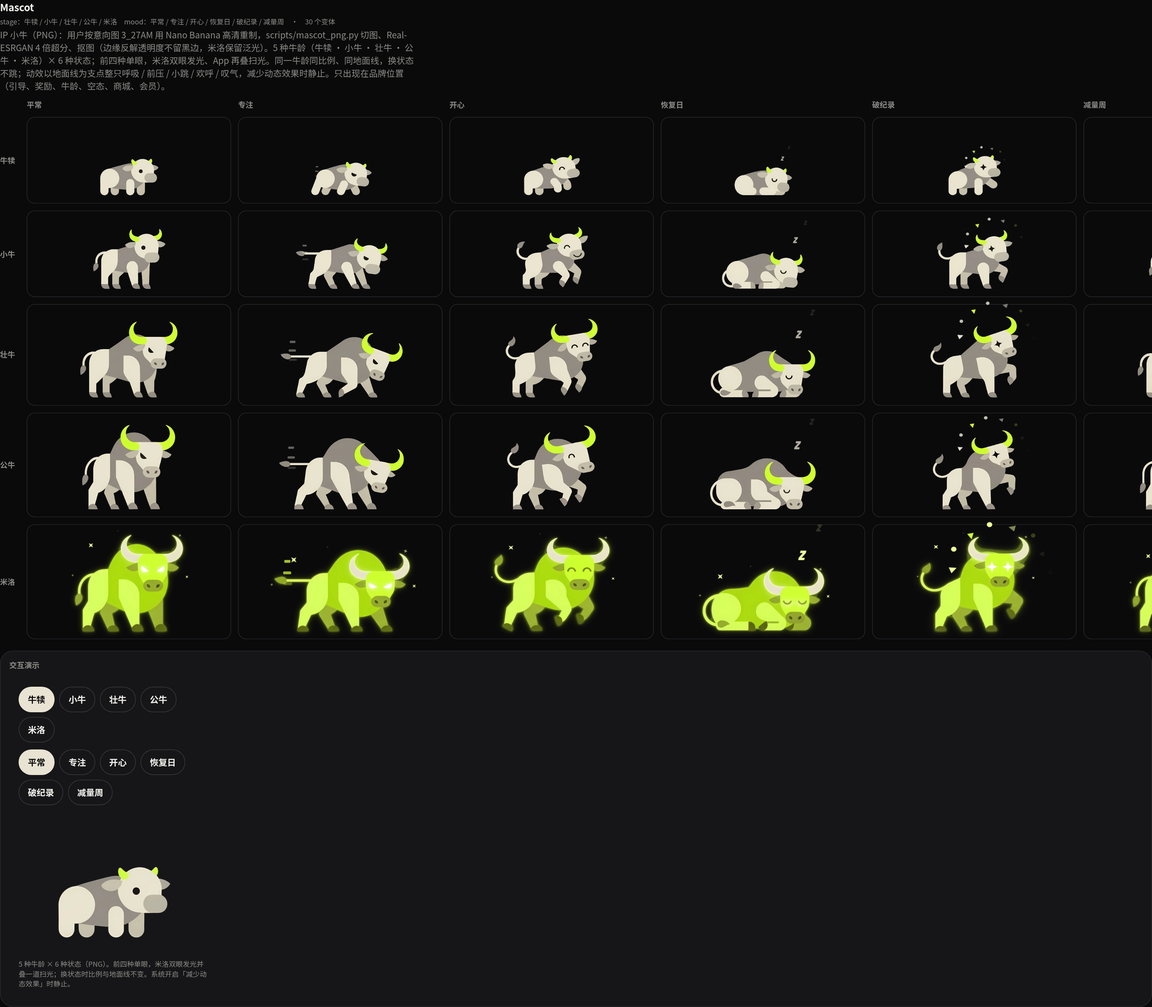
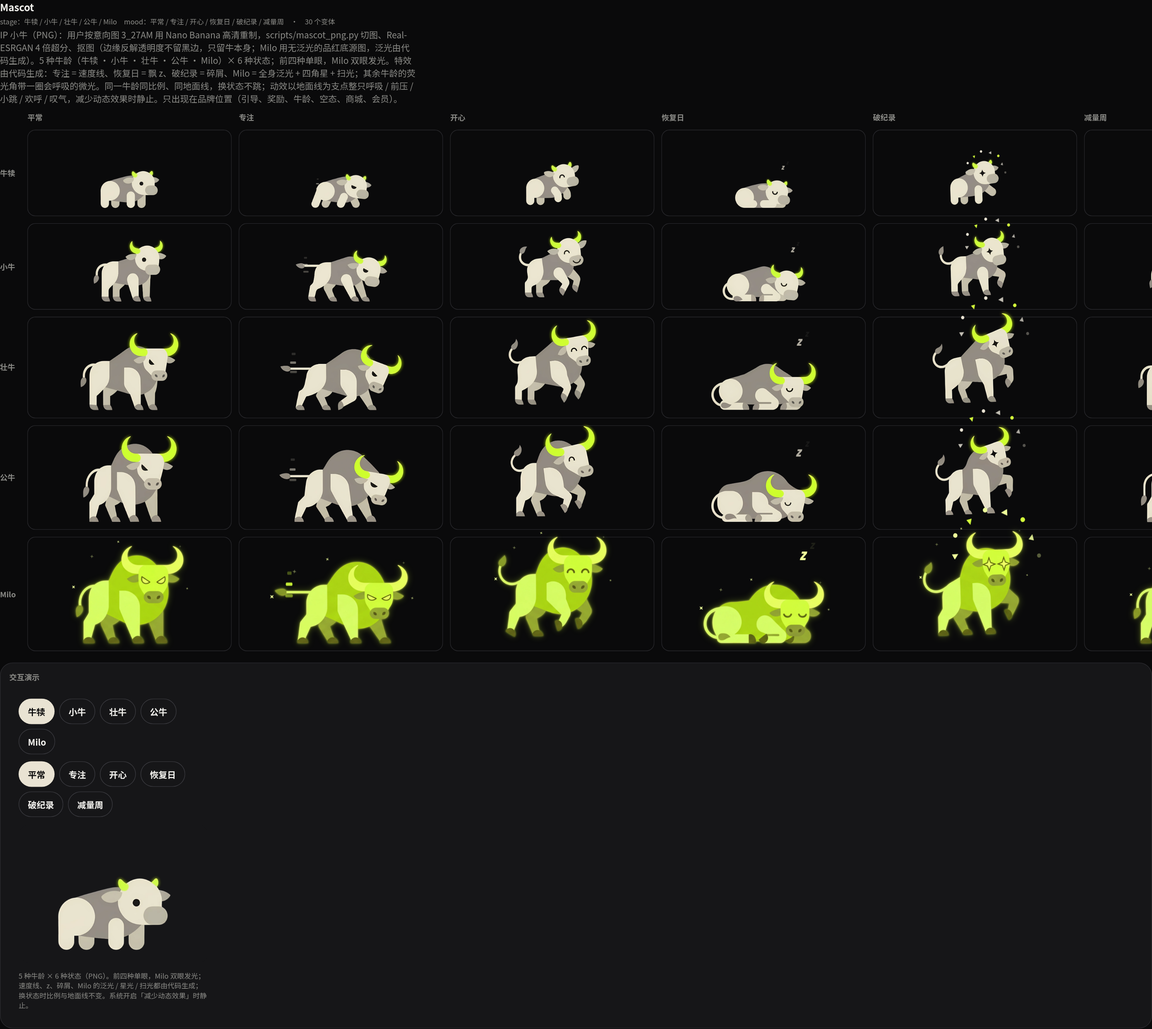
Milo 换无泛光源图重抠：绿色通道当键、去粉边，角和眼是全图最亮的荧光；头像框标定
- 源图 docs/B5-noglow.jpg（用户按提示词 §D 重出：无泛光、品红纯色底、角和眼 #EEFF6A 档荧光），已是 B5 的 4 倍大，跳过超分
- 品红底用绿色通道当键抠（底绿 ≈ 7，蹄子 ≈ 86），实心区往里收 2 像素，去掉生成图外缘的暗品红描边
- 删掉 BiRefNet 过渡方案；Milo 头像框改为和其余牛龄一样的逐张标定像素框
- 文档、品牌页、目录描述同步；奖励 GIF 与相关组件截图重出

Claude-Session: https://claude.ai/code/session_01VtzVRg4P2pmqxTgWpjWk5a

diff --git a/src/components/mascotAssets.ts b/src/components/mascotAssets.ts
@@ -4,4 +4,4 @@
 export type MascotStage = 'newborn' | 'young' | 'sturdy' | 'bull' | 'milo';
 export type MascotMood = 'idle' | 'focused' | 'happy' | 'rest' | 'pr' | 'deload';
 export interface MascotAsset { w: number; h: number; ground: number; moods: Record<MascotMood, { head: [number, number, number, number]; body: [number, number, number, number] }> }
-export const MASCOT_ASSETS: Record<MascotStage, MascotAsset> = {"newborn":{"w":410,"h":297,"ground":289.1,"moods":{"idle":{"head":[201,27,202,202],"body":[14,47,398,288]},"focused":{"head":[211,49,202,202],"body":[8,64,403,287]},"happy":{"head":[181,-3,207,207],"body":[28,7,381,287]},"rest":{"head":[204,84,202,202],"body":[18,105,392,288]},"pr":{"head":[184,-3,196,196],"body":[40,9,371,287]},"deload":{"head":[199,37,202,202],"body":[21,64,389,288]}}},"young":{"w":618,"h":446,"ground":439.1,"moods":{"idle":{"head":[286,23,258,258],"body":[72,42,548,437]},"focused":{"head":[366,84,269,269],"body":[9,100,611,437]},"happy":{"head":[286,-14,258,258],"body":[84,8,537,437]},"rest":{"head":[338,172,252,252],"body":[39,201,581,437]},"pr":{"head":[298,10,263,263],"body":[70,30,550,437]},"deload":{"head":[316,83,258,258],"body":[64,96,556,437]}}},"sturdy":{"w":814,"h":579,"ground":571.7,"moods":{"idle":{"head":[388,46,358,358],"body":[86,72,727,570]},"focused":{"head":[491,119,358,358],"body":[7,140,806,570]},"happy":{"head":[376,-6,347,347],"body":[115,25,699,570]},"rest":{"head":[422,230,347,347],"body":[65,269,749,569]},"pr":{"head":[377,-18,336,336],"body":[129,9,687,571]},"deload":{"head":[394,90,347,347],"body":[90,123,724,571]}}},"bull":{"w":836,"h":602,"ground":594.1,"moods":{"idle":{"head":[343,4,403,403],"body":[111,36,727,591]},"focused":{"head":[476,125,381,381],"body":[8,116,828,591]},"happy":{"head":[345,-15,381,381],"body":[136,9,701,592]},"rest":{"head":[410,250,375,375],"body":[73,267,766,591]},"pr":{"head":[375,9,325,325],"body":[156,44,682,592]},"deload":{"head":[386,118,358,358],"body":[117,149,720,593]}}},"milo":{"w":902,"h":672,"ground":662.3,"moods":{"idle":{"head":[397,15,335,335],"body":[94,30,807,665]},"focused":{"head":[429,103,397,397],"body":[7,122,894,665]},"happy":{"head":[368,-15,344,344],"body":[86,14,818,665]},"rest":{"head":[392,234,374,374],"body":[54,262,850,660]},"pr":{"head":[373,-11,326,326],"body":[106,8,799,664]},"deload":{"head":[399,107,331,331],"body":[100,105,803,664]}}}};
+export const MASCOT_ASSETS: Record<MascotStage, MascotAsset> = {"newborn":{"w":410,"h":297,"ground":289.1,"moods":{"idle":{"head":[201,27,202,202],"body":[14,47,398,288]},"focused":{"head":[211,49,202,202],"body":[8,64,403,287]},"happy":{"head":[181,-3,207,207],"body":[28,7,381,287]},"rest":{"head":[204,84,202,202],"body":[18,105,392,288]},"pr":{"head":[184,-3,196,196],"body":[40,9,371,287]},"deload":{"head":[199,37,202,202],"body":[21,64,389,288]}}},"young":{"w":618,"h":446,"ground":439.1,"moods":{"idle":{"head":[286,23,258,258],"body":[72,42,548,437]},"focused":{"head":[366,84,269,269],"body":[9,100,611,437]},"happy":{"head":[286,-14,258,258],"body":[84,8,537,437]},"rest":{"head":[338,172,252,252],"body":[39,201,581,437]},"pr":{"head":[298,10,263,263],"body":[70,30,550,437]},"deload":{"head":[316,83,258,258],"body":[64,96,556,437]}}},"sturdy":{"w":814,"h":579,"ground":571.7,"moods":{"idle":{"head":[388,46,358,358],"body":[86,72,727,570]},"focused":{"head":[491,119,358,358],"body":[7,140,806,570]},"happy":{"head":[376,-6,347,347],"body":[115,25,699,570]},"rest":{"head":[422,230,347,347],"body":[65,269,749,569]},"pr":{"head":[377,-18,336,336],"body":[129,9,687,571]},"deload":{"head":[394,90,347,347],"body":[90,123,724,571]}}},"bull":{"w":836,"h":602,"ground":594.1,"moods":{"idle":{"head":[343,4,403,403],"body":[111,36,727,591]},"focused":{"head":[476,125,381,381],"body":[8,116,828,591]},"happy":{"head":[345,-15,381,381],"body":[136,9,701,592]},"rest":{"head":[410,250,375,375],"body":[73,267,766,591]},"pr":{"head":[375,9,325,325],"body":[156,44,682,592]},"deload":{"head":[386,118,358,358],"body":[117,149,720,593]}}},"milo":{"w":894,"h":666,"ground":659.1,"moods":{"idle":{"head":[368,-19,459,459],"body":[94,27,802,658]},"focused":{"head":[466,94,448,448],"body":[8,119,888,658]},"happy":{"head":[386,-32,448,448],"body":[84,10,812,658]},"rest":{"head":[424,216,442,442],"body":[53,263,844,658]},"pr":{"head":[382,-37,431,431],"body":[105,7,792,658]},"deload":{"head":[372,53,448,448],"body":[99,104,798,658]}}}};

diff --git a/src/playground/catalog.tsx b/src/playground/catalog.tsx
@@ -408,7 +408,7 @@ export const CATALOG: Entry[] = [
   },
   /* ---------------- 品牌（阶段 5.5b，2026-10-05） ---------------- */
   {
-    name: 'Mascot', group: '品牌', desc: 'IP 小牛（PNG）：用户按意向图 3_27AM 用 Nano Banana 高清重制，scripts/mascot_png.py 切图、Real-ESRGAN 4 倍超分、抠图（边缘反解透明度不留黑边，只留牛本身；Milo 用 BiRefNet 直接出透明度，泛光扣得干净）。5 种牛龄（牛犊 · 小牛 · 壮牛 · 公牛 · Milo）× 6 种状态；前四种单眼，Milo 双眼发光。特效由代码生成：专注 = 速度线、恢复日 = 飘 z、破纪录 = 碎屑、Milo = 全身泛光 + 四角星 + 扫光；其余牛龄的荧光角带一圈会呼吸的微光。同一牛龄同比例、同地面线，换状态不跳；动效以地面线为支点整只呼吸 / 前压 / 小跳 / 欢呼 / 叹气，减少动态效果时静止。只出现在品牌位置（引导、奖励、牛龄、空态、商城、会员）。',
+    name: 'Mascot', group: '品牌', desc: 'IP 小牛（PNG）：用户按意向图 3_27AM 用 Nano Banana 高清重制，scripts/mascot_png.py 切图、Real-ESRGAN 4 倍超分、抠图（边缘反解透明度不留黑边，只留牛本身；Milo 用无泛光的品红底源图，泛光由代码生成）。5 种牛龄（牛犊 · 小牛 · 壮牛 · 公牛 · Milo）× 6 种状态；前四种单眼，Milo 双眼发光。特效由代码生成：专注 = 速度线、恢复日 = 飘 z、破纪录 = 碎屑、Milo = 全身泛光 + 四角星 + 扫光；其余牛龄的荧光角带一圈会呼吸的微光。同一牛龄同比例、同地面线，换状态不跳；动效以地面线为支点整只呼吸 / 前压 / 小跳 / 欢呼 / 叹气，减少动态效果时静止。只出现在品牌位置（引导、奖励、牛龄、空态、商城、会员）。',
     axes: { stage: ['newborn', 'young', 'sturdy', 'bull', 'milo'], mood: ['m-idle', 'm-focused', 'm-happy', 'm-rest', 'm-pr', 'm-deload'] }, rows: ['stage'], cols: 'mood', size: 'card',
     render: (p) => <div className={s.mascotCell}><Mascot stage={p.stage as MascotStage} mood={p.mood.slice(2) as MascotMood} animate title="慢牛小牛" /></div>,
   },

diff --git a/src/lab/Brand.tsx b/src/lab/Brand.tsx
@@ -53,7 +53,7 @@ export function Brand() {
         </div>
       </Section>
 
-      <Section id="ip-hd" title="高清化与抠图" sub="scripts/mascot_png.py：①从状态板切出每只牛，只留牛本身（碎屑、z、速度线、星光、泛光都不要，进 App 时由代码生成）；②Real-ESRGAN anime 模型 4 倍超分，去掉 JPEG 块状噪点、边缘变锐；③在 4 倍图上抠图：边缘按「像素 = α·前景 + (1−α)·背景」反解透明度并换成最近的实心色，不留黑边；被脸包住的眼睛、鼻孔保持实心；Milo 改用 BiRefNet（HR-matting，2048 输入）直接预测透明度，只留牛身、去掉泛光雾，边缘换成最近的实心色；④同一牛龄 6 张同比例、同地面线、同画布，换状态不跳。">
+      <Section id="ip-hd" title="高清化与抠图" sub="scripts/mascot_png.py：①从状态板切出每只牛，只留牛本身（碎屑、z、速度线、星光、泛光都不要，进 App 时由代码生成）；②Real-ESRGAN anime 模型 4 倍超分，去掉 JPEG 块状噪点、边缘变锐；③在 4 倍图上抠图：边缘按「像素 = α·前景 + (1−α)·背景」反解透明度并换成最近的实心色，不留黑边；被脸包住的眼睛、鼻孔保持实心；Milo 的源图换成用户重出的无泛光、品红底版本（角和眼改成最亮的荧光），用绿色通道抠，泛光全由代码生成；④同一牛龄 6 张同比例、同地面线、同画布，换状态不跳。">
         <div className={s.checkCol}>
           <p className="milo-text-body">素材在 public/mascot/&lt;牛龄&gt;-&lt;状态&gt;.webp（App 用），PNG 母版在 design/brand/mascot/；检查图 screenshots/brand/mascot-sheet-checker.png（棋盘格 = 透明，红框 = 头像裁切，蓝线 = 地面线）。</p>
         </div>

diff --git a/scripts/mascot_png.py b/scripts/mascot_png.py
@@ -13,8 +13,9 @@
 3. 抠图（在 4 倍图上做）：
    - 实心区 = 和背景色差够大的像素；被实心区包住的暗色小洞（眼睛、鼻孔、四角星眼）也算实心；
    - 边缘按「像素 = α·前景 + (1−α)·背景」反解 α，前景色取最近的实心像素（去掉黑边）；
-   - Milo（2026-10-05 用户：边缘还有没扣干净的泛光）改用 BiRefNet（ZhengPeng7/BiRefNet_HR-matting，2048 输入）直接预测 α：
-     只留牛身那一块（四角星丢掉），去掉泛光留下的低 α 雾，边缘颜色取最近的实心像素（不带泛光的色偏）。光晕由 App 叠加。
+   - Milo 的源图换成 docs/B5-noglow.jpg（2026-10-05）：B5 的泛光贴着牛身、越近越亮，阈值法和 BiRefNet（试过，2026-10-05）都扣不干净，
+     用户用 Nano Banana 出了无泛光、品红纯色底的版本（角和眼改成最亮的荧光，提示词 nanobanana-ip-hd.md §D）。
+     它本身就是 B5 的 4 倍大小，跳过超分，和其余牛龄走同一套抠图。光晕由 App 叠加。
 4. 规整：同一牛龄的 6 张用同一个比例、同一条地面线、同一块画布（换状态不跳）；各牛龄的大小按 A 的相对身高。
 5. 导出：public/mascot/<牛龄>-<状态>.webp（App 用）和 design/brand/mascot/<牛龄>-<状态>.png（PNG 母版），
    非 Milo 另出 public/mascot/<牛龄>-<状态>-lime.webp（只有荧光的角，App 用它叠微光），
@@ -23,7 +24,7 @@
 
   python3 scripts/mascot_png.py            # 全流程（第一次要几分钟：超分在 CPU 上跑）
   python3 scripts/mascot_png.py --sheet    # 另出检查图 screenshots/brand/mascot-sheet-*.png
-依赖：numpy、opencv-python-headless、torch（CPU 版即可）、Pillow；Milo 另要 transformers、timm（BiRefNet，权重缓存在 .cache/hf/）。"""
+依赖：numpy、opencv-python-headless、torch（CPU 版即可）、Pillow。"""
 import argparse, hashlib, json, os, urllib.request
 import numpy as np, cv2
 
@@ -32,7 +33,8 @@ CACHE = os.path.join(ROOT, '.cache', 'mascot')
 WEIGHTS_URL = 'https://github.com/xinntao/Real-ESRGAN/releases/download/v0.2.2.4/RealESRGAN_x4plus_anime_6B.pth'
 STAGES = ['newborn', 'young', 'sturdy', 'bull', 'milo']
 MOODS = ['idle', 'focused', 'happy', 'rest', 'pr', 'deload']  # 状态板里的顺序：上排 3 个、下排 3 个
-SHEET = {s: f'docs/B{i + 1}.jpg' for i, s in enumerate(STAGES)}
+SHEET = {**{s: f'docs/B{i + 1}.jpg' for i, s in enumerate(STAGES)}, 'milo': 'docs/B5-noglow.jpg'}
+NATIVE = {'milo'}  # 源图已是 4 倍大小，不再超分
 SR = 4
 OUT_H = {'bull': 560}  # 公牛平常状态的身高（像素）；其余牛龄按 A 的比例换算
 
@@ -123,13 +125,18 @@ def figures(img, n=6, thr=34):
 
 
 # ---------- 抠图 ----------
-def matte(sr, bg, member, hi, lo):
+def matte(sr, bg, member, hi, lo, key=None):
     """sr = 4 倍超分后的裁切图；member = 这只牛（已放大到同尺寸，并外扩过）；
-    hi = 实心阈值（和背景的色差）；lo = 牛身外面一圈的底色水平（一般是背景 ≈ 7；Milo 外面是泛光 ≈ 60，把光当底扣掉）"""
+    hi = 实心阈值（和背景的色差）；lo = 牛身外面一圈的底色水平（背景噪点）。
+    key = 只看一个通道（品红底用绿色通道 1：底色绿 ≈ 7，牛身最暗的蹄子也有 ≈ 86；生成图在牛身外缘有一道暗品红描边，
+    按最大色差算它会被当成牛身，按绿色通道算它就是底）"""
     H, W = sr.shape[:2]
-    d = dist(sr, bg)
+    gap = (lambda px: px[..., key].astype(np.float32) - bg[key]) if key is not None else (lambda px: dist(px, bg))
+    d = gap(sr)
     core = (d > hi) & member
     core = cv2.morphologyEx(core.astype(np.uint8), cv2.MORPH_OPEN, np.ones((3, 3), np.uint8)).astype(bool)
+    if key is not None:  # 品红底的过渡像素绿色也够高，会被当实心、带着品红原色留下来（一圈粉线）：实心区往里收 2 像素，边上一律用最近的牛身色
+        core = cv2.erode(core.astype(np.uint8), np.ones((5, 5), np.uint8)).astype(bool)
     # 被实心区包住的洞：小的（眼睛、鼻孔、星星眼）算实心；大的（腿缝、尾巴圈住的背景）还是背景
     holes = (~core).astype(np.uint8); cv2.floodFill(holes, np.zeros((H + 2, W + 2), np.uint8), (0, 0), 0)
     cnt, cc, st, _ = cv2.connectedComponentsWithStats(holes, connectivity=8)
@@ -142,68 +149,12 @@ def matte(sr, bg, member, hi, lo):
     _, lab = cv2.distanceTransformWithLabels((~core).astype(np.uint8), cv2.DIST_L2, 5, labelType=cv2.DIST_LABEL_PIXEL)
     cy, cx = np.nonzero(core); lut = np.zeros((lab.max() + 1, 3), np.float32); lut[1:len(cy) + 1] = sr[cy, cx]
     Fc = lut[lab]
-    dF = np.abs(Fc - bg).max(-1)
+    dF = gap(Fc)
     a = np.clip((d - lo) / np.maximum(dF - lo, 1), 0, 1)
     near = cv2.dilate(solid.astype(np.uint8), cv2.getStructuringElement(cv2.MORPH_ELLIPSE, (15, 15))).astype(bool)
     a = np.where(solid, 1.0, np.where(near & member, a, 0.0))
     rgb = np.where(solid[..., None], sr.astype(np.float32), Fc)
     a = cv2.GaussianBlur(a.astype(np.float32), (0, 0), 0.5) * (~solid) + solid
-    return np.dstack([np.clip(rgb, 0, 255), np.clip(a * 255, 0, 255)]).astype(np.uint8)
-
-
-# ---------- Milo：BiRefNet 直接出 α ----------
-BIREFNET = 'ZhengPeng7/BiRefNet_HR-matting'
-BIREF_SIZE = 2048  # 1024 会把一部分泛光当半透明前景；2048 的边缘贴着牛身
-
-
-def load_birefnet():
-    import torch
-    os.environ.setdefault('HF_HOME', os.path.join(ROOT, '.cache', 'hf'))
-    from transformers import AutoModelForImageSegmentation
-    net = AutoModelForImageSegmentation.from_pretrained(BIREFNET, trust_remote_code=True).eval().float()
-
-    def run(img_bgr):
-        h, w = img_bgr.shape[:2]
-        x = cv2.resize(img_bgr, (BIREF_SIZE, BIREF_SIZE), interpolation=cv2.INTER_AREA)[:, :, ::-1].astype(np.float32) / 255
-        x = (x - [0.485, 0.456, 0.406]) / [0.229, 0.224, 0.225]
-        with torch.no_grad(): a = net(torch.from_numpy(x.transpose(2, 0, 1)).float()[None])[-1].sigmoid()[0, 0].numpy()
-        return np.clip(cv2.resize(a, (w, h), interpolation=cv2.INTER_CUBIC), 0, 1)
-    return run
-
-
-def matte_alpha(sr, bg, a, member, edge=8):
-    """BiRefNet 的 α → RGBA。BiRefNet 大多数地方边缘贴着牛身，但会把「两角之间、腿缝里被泛光填满的地方」整块判成前景
-    （破纪录那张最明显）。泛光是缓慢渐变，牛身边缘是一步到位的硬边——所以再用硬边圈一次：
-    从画面边缘往里灌，碰到硬边停，灌到的是外面；被硬边围住、但里面掺着底色（10% 分位和底色差 < 40）的块也是外面。
-    牛身 = 硬边圈出来的区域，加上外面里「平的、和底色差够大」的大块（蹄子的边偏软，灌水会漏进去）；α 取 BiRefNet 和颜色（差 50 → 0、差 85 → 1）里较大的那个（BiRefNet 偶尔漏掉蹄子），
-    只留牛身那一块（四角星丢掉），半透明的边缘颜色换成最近的实心像素（不带泛光、底色的色偏）。"""
-    d = dist(sr, bg).astype(np.float32)
-    g = cv2.GaussianBlur(d, (0, 0), 1.0)
-    grad = np.hypot(cv2.Sobel(g, cv2.CV_32F, 1, 0, ksize=3), cv2.Sobel(g, cv2.CV_32F, 0, 1, ksize=3)) / 8
-    hard = cv2.dilate((grad > edge).astype(np.uint8), np.ones((3, 3), np.uint8))
-    H, W = d.shape
-    ff = 1 - hard; cv2.floodFill(ff, np.zeros((H + 2, W + 2), np.uint8), (0, 0), 2)
-    cnt, cc, st, _ = cv2.connectedComponentsWithStats((ff == 1).astype(np.uint8), connectivity=4)
-    out = np.zeros(cnt, bool)
-    for k in range(1, cnt):
-        if np.percentile(d[cc == k], 10) < 40: out[k] = True
-    body = (ff != 2) & ~out[cc]
-    # 蹄子和底色之间的边偏软，灌水会漏进蹄子：外面里「平的、和底色差够大」的大块（蹄子）捞回来——泛光是渐变，不平
-    flat = ((grad < 0.7) & (d > 75) & (ff == 2)).astype(np.uint8)
-    cnt, cc, st, _ = cv2.connectedComponentsWithStats(flat, connectivity=4)
-    big = np.zeros(cnt, bool); big[1:] = st[1:, cv2.CC_STAT_AREA] > 300
-    body |= cv2.dilate(big[cc].astype(np.uint8), np.ones((5, 5), np.uint8)).astype(bool)
-    body = cv2.GaussianBlur(cv2.dilate(body.astype(np.uint8), np.ones((3, 3), np.uint8)).astype(np.float32), (0, 0), 1)
-    ac = np.clip((d - 50) / 35, 0, 1)
-    a = np.maximum(np.clip((a - 0.12) / 0.76, 0, 1), ac) * body * cv2.GaussianBlur(member.astype(np.float32), (0, 0), 3)
-    cnt, cc, st, _ = cv2.connectedComponentsWithStats((a > 0.5).astype(np.uint8), connectivity=8)
-    body = cc == (np.argmax(st[1:, cv2.CC_STAT_AREA]) + 1)
-    near = cv2.dilate(body.astype(np.uint8), cv2.getStructuringElement(cv2.MORPH_ELLIPSE, (17, 17))).astype(bool)
-    a = a * near
-    core = cv2.erode((a > 0.97).astype(np.uint8), np.ones((3, 3), np.uint8)).astype(bool)
-    _, lab = cv2.distanceTransformWithLabels((~core).astype(np.uint8), cv2.DIST_L2, 5, labelType=cv2.DIST_LABEL_PIXEL)
-    cy, cx = np.nonzero(core); lut = np.zeros((lab.max() + 1, 3), np.float32); lut[1:len(cy) + 1] = sr[cy, cx]
-    rgb = np.where(core[..., None], sr.astype(np.float32), lut[lab])
     return np.dstack([np.clip(rgb, 0, 255), np.clip(a * 255, 0, 255)]).astype(np.uint8)
 
 
@@ -220,23 +171,18 @@ def heights_from_A():
 
 # 头像框：逐张标定的「头 + 角」外框 [x, y, 边长]（画布像素，2026-10-05 按 --sheet 检查图量的）。
 # 旧算法以角为锚往下取正方形，侧身的小牛会把肩、腿框进来（用户：头像蒙版出错），所以改成人工标定。
-# Milo 的画布随 BiRefNet 抠图变，所以 Milo 用牛身外框的比例 [cx, cy, 边长]（cx、边长按牛身宽，cy 按牛身高）。
 HEAD = {
     'newborn': {'idle': [212, 38, 180], 'focused': [222, 60, 180], 'happy': [192, 8, 185], 'rest': [215, 95, 180], 'pr': [195, 8, 175], 'deload': [210, 48, 180]},
     'young': {'idle': [300, 37, 230], 'focused': [380, 98, 240], 'happy': [300, 0, 230], 'rest': [352, 185, 225], 'pr': [312, 24, 235], 'deload': [330, 97, 230]},
     'sturdy': {'idle': [407, 65, 320], 'focused': [510, 138, 320], 'happy': [395, 13, 310], 'rest': [441, 249, 310], 'pr': [395, 0, 300], 'deload': [413, 109, 310]},
     'bull': {'idle': [365, 26, 360], 'focused': [496, 145, 340], 'happy': [365, 5, 340], 'rest': [430, 270, 335], 'pr': [392, 26, 290], 'deload': [405, 137, 320]},
+    'milo': {'idle': [393, 6, 410], 'focused': [490, 118, 400], 'happy': [410, -8, 400], 'rest': [448, 240, 395], 'pr': [405, -14, 385], 'deload': [396, 77, 400]},
 }
-MILO_HEAD = {'idle': [0.66, 0.24, 0.42], 'focused': [0.7, 0.33, 0.4], 'happy': [0.62, 0.22, 0.42], 'rest': [0.66, 0.4, 0.42], 'pr': [0.62, 0.22, 0.42], 'deload': [0.66, 0.3, 0.42]}
 HEAD_PAD = 1.12  # 圆形裁切：正方形的内切圆要装下头和角，外扩一点
 
 
-def head_box(stage, mood, body):
-    if stage == 'milo':
-        bx0, by0, bx1, by1 = body; fx, fy, fs = MILO_HEAD[mood]
-        cx, cy, side = bx0 + fx * (bx1 - bx0), by0 + fy * (by1 - by0), fs * (bx1 - bx0)
-    else:
-        x, y, side = HEAD[stage][mood]; cx, cy = x + side / 2, y + side / 2
+def head_box(stage, mood):
+    x, y, side = HEAD[stage][mood]; cx, cy = x + side / 2, y + side / 2
     side *= HEAD_PAD
     return [int(round(cx - side / 2)), int(round(cy - side / 2)), int(round(side)), int(round(side))]
 
@@ -251,7 +197,7 @@ def lime_layer(rgba):
 
 def main(sheet):
     from PIL import Image
-    sr_run = biref = None
+    sr_run = None
     ratio = heights_from_A()
     out_pub = os.path.join(ROOT, 'public', 'mascot'); out_png = os.path.join(ROOT, 'design', 'brand', 'mascot')
     os.makedirs(out_pub, exist_ok=True); os.makedirs(out_png, exist_ok=True); os.makedirs(CACHE, exist_ok=True)
@@ -259,33 +205,28 @@ def main(sheet):
     for stage in STAGES:
         img = cv2.imread(os.path.join(ROOT, SHEET[stage]))
         milo = stage == 'milo'
-        figs, bg = figures(img, thr=85 if milo else 34)  # Milo 外面有泛光：阈值抬高，只取牛身
+        k4 = 1 if stage in NATIVE else SR
+        figs, bg = figures(img, thr=34 * (2 if stage in NATIVE else 1))
         mats = []
         for k, ((x0, y0, x1, y1), member, body) in enumerate(figs):
-            m = 40 if milo else 14  # Milo 留宽一点：BiRefNet 要看到牛身外面的泛光和底，才分得清
+            m = 14 * (SR // k4)
             X0, Y0, X1, Y1 = max(0, x0 - m), max(0, y0 - m), min(img.shape[1], x1 + m), min(img.shape[0], y1 + m)
             crop = img[Y0:Y1, X0:X1]
             key = hashlib.md5(crop.tobytes()).hexdigest()[:12]
             cp = os.path.join(CACHE, f'{stage}-{MOODS[k]}-{key}.png')
-            if os.path.exists(cp): sr = cv2.imread(cp)
+            if stage in NATIVE: sr = crop
+            elif os.path.exists(cp): sr = cv2.imread(cp)
             else:
                 if sr_run is None: sr_run = load_sr()
                 print('  超分', stage, MOODS[k], crop.shape[1], '×', crop.shape[0]); sr = sr_run(crop); cv2.imwrite(cp, sr)
             mem = member[Y0:Y1, X0:X1].astype(np.uint8)
-            mem = cv2.dilate(mem, cv2.getStructuringElement(cv2.MORPH_ELLIPSE, (11, 11)))
+            mem = cv2.dilate(mem, cv2.getStructuringElement(cv2.MORPH_ELLIPSE, (11 * SR // k4,) * 2))
             mem = cv2.resize(mem, (sr.shape[1], sr.shape[0]), interpolation=cv2.INTER_NEAREST).astype(bool)
-            if milo:
-                ap = os.path.join(CACHE, f'{stage}-{MOODS[k]}-{key}-alpha{BIREF_SIZE}.png')
-                if os.path.exists(ap): a = cv2.imread(ap, cv2.IMREAD_GRAYSCALE) / 255.0
-                else:
-                    if biref is None: biref = load_birefnet()
-                    print('  BiRefNet', stage, MOODS[k]); a = biref(sr); cv2.imwrite(ap, (a * 255 + 0.5).astype(np.uint8))
-                rgba = matte_alpha(sr, bg, a, mem)
-            else: rgba = matte(sr, bg, mem, hi=58, lo=7)
+            rgba = matte(sr, bg, mem, hi=58, lo=12, key=1) if stage in NATIVE else matte(sr, bg, mem, hi=58, lo=7)  # 品红底：绿色通道当键，噪点 ≤ 8
             bx0, by0, bx1, by1 = body
-            ground = (by1 - Y0) * SR                       # 牛身最低点 = 地面线
-            cxb = ((bx0 + bx1) / 2 - X0) * SR               # 牛身横向中心
-            hb = (by1 - by0) * SR
+            ground = (by1 - Y0) * k4                       # 牛身最低点 = 地面线
+            cxb = ((bx0 + bx1) / 2 - X0) * k4               # 牛身横向中心
+            hb = (by1 - by0) * k4
             mats.append((rgba, ground, cxb, hb))
         # 同一牛龄：同比例（按平常状态的身高）、同地面线、同画布
         s = OUT_H['bull'] * ratio[stage] / mats[0][3]
@@ -312,7 +253,7 @@ def main(sheet):
                 Image.fromarray(cv2.cvtColor(lime_layer(canvas), cv2.COLOR_BGRA2RGBA)).save(os.path.join(out_pub, name + '-lime.webp'), quality=80, method=6)
             ys, xs = np.nonzero(canvas[:, :, 3] > 128)
             body = [int(xs.min()), int(ys.min()), int(xs.max()) + 1, int(ys.max()) + 1]
-            meta[stage]['moods'][MOODS[k]] = {'head': head_box(stage, MOODS[k], body), 'body': body}
+            meta[stage]['moods'][MOODS[k]] = {'head': head_box(stage, MOODS[k]), 'body': body}
         print(stage, CW, '×', CH, 'ground', round(gy), 'scale', round(s, 3))
     ts = ['/** 由 scripts/mascot_png.py 生成，勿手改：IP 小牛 PNG 素材的画布尺寸（像素）、地面线 y、各状态的头像裁切框 [x, y, 边长]。',
           ' *  头像框是逐张标定的「头 + 角」，已外扩成能放进圆形的正方形。非 Milo 另有 <牛龄>-<状态>-lime.webp（只有荧光的角，叠微光用）。',

diff --git a/docs/brief.md b/docs/brief.md
@@ -404,7 +404,7 @@
 | 2026-10-04 | 进入阶段 6 前插入阶段 5.5「品牌与增长层」：讲故事、等级、奖励、积分卡券、商城（情境知识卡 + 入驻商家）、会员（只做设计不拦截）、IP、Logo 与状态变体、通知 / 小组件 / 上架素材 / 案例页；等级用双轨（牛龄看增量、守约周连胜看粘性）；执行顺序由 Claude 定，做最少的事出最好的效果；开屏动画、战报分享暂不做 | 用户 |
 | 2026-10-05 | IP 改用 PNG：以意向图 3_27AM（`docs/brand-refs/ip2-geo-b-selected.jpg`）为准用 Nano Banana 高清重制，5 种牛龄（牛犊 / 小牛 / 壮牛 / 公牛 / Milo）× 6 种状态；前四种单眼，Milo 双眼且泛光（光晕、扫光、星光由 App 叠加）。AI 出图从此可作为 IP 素材（此前只当意向参考）。提示词 `design/brand/prompts/nanobanana-ip-hd.md` | 用户 |
 | 2026-10-05 | 阶段 5.5c 拍板：牛龄 5 种全上；成长值按相对增幅（%）算；升段节奏 小牛≈2 月 / 壮牛≈6 月 / 公牛≈12 月 / Milo≈24 月；一律从牛犊起步（老手靠周期和 PR 升级）。奖励弹窗等情绪时刻要做到「超过」预期 | 用户 |
-| 2026-10-05 | 5.5c 验收反馈：①Milo 改用 BiRefNet 直接出透明度重抠（泛光边缘扣干净）；②跟 Milo 有关的文字一律用英文「Milo」，只在介绍时（故事引导、品牌命名）写「米洛（Milo）」；③固定高度的舞台加 `--mascot-max-h`，Milo 不再出格；头像框改成逐张标定的「头 + 角」，圆形裁切；④非 Milo 的荧光角加一圈微光，Milo 全身泛光 | 用户 |
+| 2026-10-05 | 5.5c 验收反馈：①Milo 重抠：试过 BiRefNet（边缘仍带泛光、两角之间误判），最终改用用户重出的无泛光品红底源图 `docs/B5-noglow.jpg`；②跟 Milo 有关的文字一律用英文「Milo」，只在介绍时（故事引导、品牌命名）写「米洛（Milo）」；③固定高度的舞台加 `--mascot-max-h`，Milo 不再出格；头像框改成逐张标定的「头 + 角」，圆形裁切；④非 Milo 的荧光角加一圈微光，Milo 全身泛光 | 用户 |
 | 2026-10-05 | Milo 改色：角和眼改成画面里最亮的荧光（`#EEFF6A`，原为骨白角、白眼）；源图去掉辉光后重抠，光效全由代码生成（提示词 `design/brand/prompts/nanobanana-ip-hd.md` §D） | 用户 |
 
 ## 已交付

diff --git a/design/brand/prompts/nanobanana-ip-hd.md b/design/brand/prompts/nanobanana-ip-hd.md
@@ -24,7 +24,7 @@
 | 小牛 | Young Calf | 62% | 荧光小新月 | 单眼 · 圆点 | 腿变长、背平、细尾、灰蹄 |
 | 壮牛 | Sturdy Young Bull | 82% | 荧光中新月 | 单眼 · 斜切半月（坚定） | 肩峰隆起、方臀 |
 | 公牛 | Full-grown Bull | 100% | 荧光大新月 | 单眼 · 斜切半月（浓眉） | 巨大肩峰、头低前伸 |
-| Milo（米洛） | Milo | 105% | 骨白大新月 + 荧光描边光 | **双眼 · 发光**（正脸） | 公牛体型、全身荧光色系、轮廓泛光、四角星 |
+| Milo（米洛） | Milo | 105% | 大新月，全图最亮的荧光（2026-10-05 起，见 §D；原为骨白 + 荧光描边光） | **双眼 · 发光**（正脸） | 公牛体型、全身荧光色系、轮廓泛光、四角星 |
 
 | 状态 | 英文 | 单眼牛龄的眼 | Milo 的眼 | 姿态与点缀 |
 |---|---|---|---|---|
